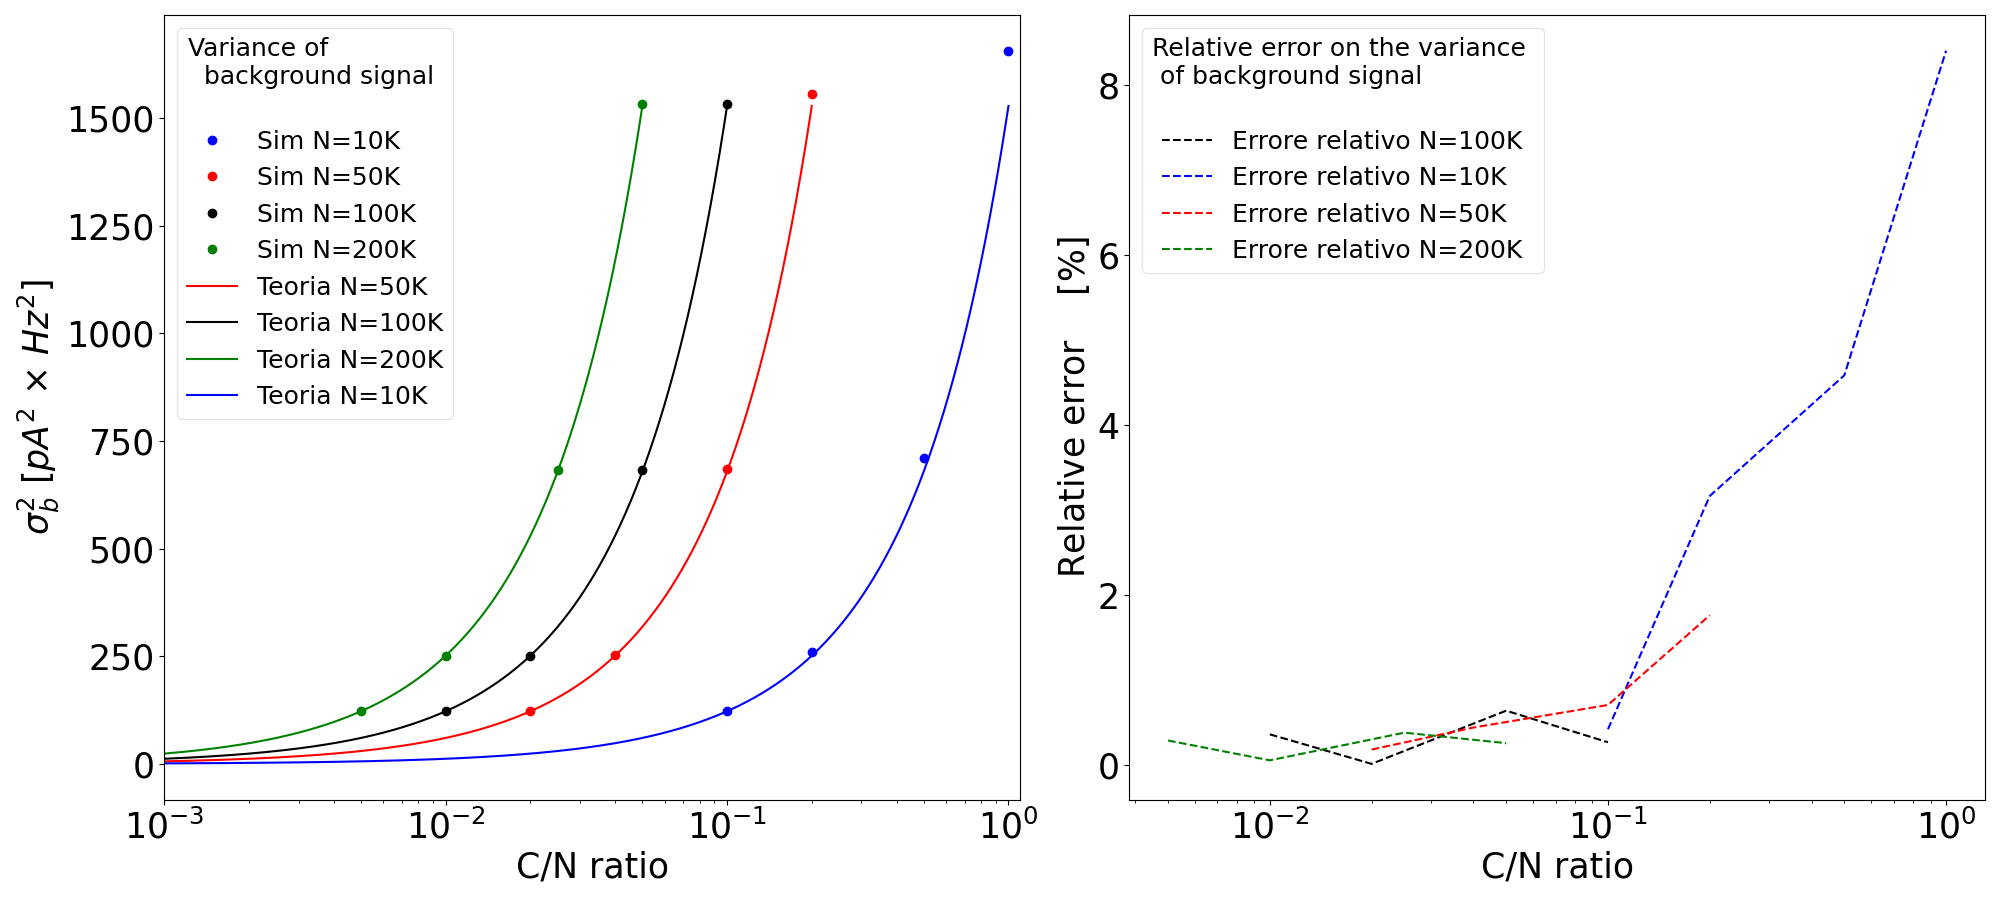
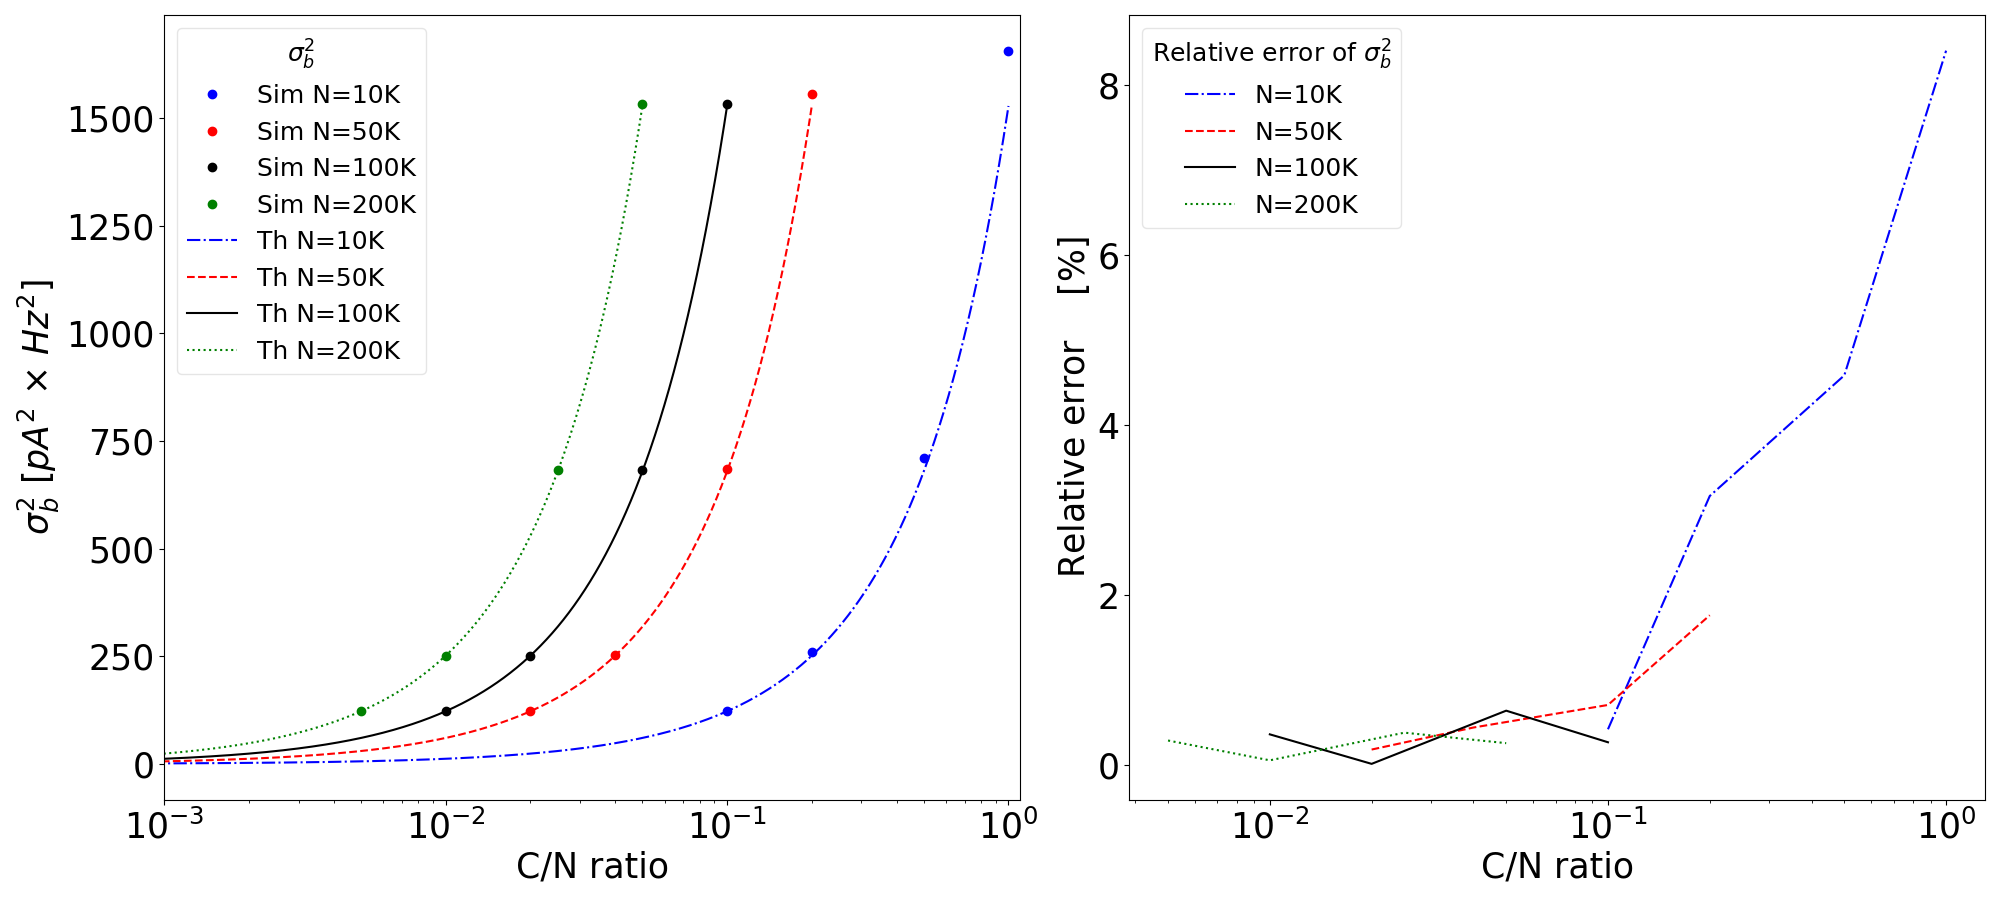
adapted CN plot

Changed region(s): [[0.093, 0.0311, 0.217, 0.4667], [0.558, 0.0311, 0.775, 0.3111]]

diff --git a/C_vs_N_plot/plot_cn.py b/C_vs_N_plot/plot_cn.py
@@ -160,10 +160,10 @@ ax1.plot(R10K, [varSb_exp_1[0], varSb_exp_2[0], varSb_exp_5[0], varSb_exp[0] ], 
 ax1.plot(R50K, [varSb_exp_1[1], varSb_exp_2[1], varSb_exp_5[1], varSb_exp[1]], "o", color="red", label="Sim N=50K")
 ax1.plot(R100K, [varSb_exp_1[2], varSb_exp_2[2], varSb_exp_5[2], varSb_exp[2]], "o", color="black", label="Sim N=100K")
 ax1.plot(R200K, [varSb_exp_1[3], varSb_exp_2[3], varSb_exp_5[3], varSb_exp[3]], "o", color="green", label="Sim N=200K")
-ax1.plot(C_frac_50,varSb_t_50k, "-", color="red", label="Teoria N=50K")
-ax1.plot(C_frac_100,varSb_t_100k, "-", color="black", label="Teoria N=100K")
-ax1.plot(C_frac_200,varSb_t_200k, "-", color="green", label="Teoria N=200K")
-ax1.plot(C_frac_10,varSb_t_10k, "-", color="blue", label="Teoria N=10K")
+ax1.plot(C_frac_10,varSb_t_10k, "-.", color="blue", label="Th N=10K")
+ax1.plot(C_frac_50,varSb_t_50k, "--", color="red", label="Th N=50K")
+ax1.plot(C_frac_100,varSb_t_100k, "-", color="black", label="Th N=100K")
+ax1.plot(C_frac_200,varSb_t_200k, ":", color="green", label="Th N=200K")
 ax1.set_xscale('log')
 ax1.set_xlim(0.001,1.1)
 
@@ -173,15 +173,14 @@ ax1.set_ylabel(r"$\sigma_{b}^2$ [$pA^2$ $\times$ $Hz^2$]", fontsize=tick_fs)
 #ax1.set_ylabel(r"$\frac{S2-S2_{th}}{S2_{th}}$ (%)  ", fontsize=tick_fs)
 ax1.tick_params(labelsize=tick_fs)
 #ax1.grid()
-ax1.legend(title="Variance of \n  background signal \n", fontsize=legend_fs, title_fontsize=legend_fs, framealpha=0.5)
+ax1.legend(title=r"$\sigma^2_b$", fontsize=legend_fs, title_fontsize=legend_fs, framealpha=0.5)
 
-
-ax2.plot(R100K,[abs((varSb_exp_1[2]-varSb_t_100k[999])/varSb_t_100k[999]*100),abs( (varSb_exp_2[2]-varSb_t_100k[1999])/varSb_t_100k[1999]*100),abs( (varSb_exp_5[2]-varSb_t_100k[4999])/varSb_t_100k[4999]*100), abs((varSb_exp[2]-varSb_t_100k[9999])/varSb_t_100k[9999]*100)], "--", color="black", label="Errore relativo N=100K")
+ax2.plot(R10K, [abs(varSb_exp_1[0]-varSb_t_10k[999])/varSb_t_10k[999]*100, abs(varSb_exp_2[0]-varSb_t_10k[1999])/varSb_t_10k[1999]*100,abs( varSb_exp_5[0]-varSb_t_10k[4999])/varSb_t_10k[4999]*100, abs(varSb_exp[0]-varSb_t_10k[9999])/varSb_t_10k[9999]*100 ], "-.", color="blue", label="N=10K")
+ax2.plot(R50K, [abs(varSb_exp_1[1]-varSb_t_50k[999])/varSb_t_50k[999]*100, abs(varSb_exp_2[1]-varSb_t_50k[1999])/varSb_t_50k[1999]*100,abs( varSb_exp_5[1]-varSb_t_50k[4999])/varSb_t_50k[4999]*100, abs(varSb_exp[1]-varSb_t_50k[9999])/varSb_t_50k[9999]*100 ], "--", color="red", label="N=50K")
+ax2.plot(R100K,[abs((varSb_exp_1[2]-varSb_t_100k[999])/varSb_t_100k[999]*100),abs( (varSb_exp_2[2]-varSb_t_100k[1999])/varSb_t_100k[1999]*100),abs( (varSb_exp_5[2]-varSb_t_100k[4999])/varSb_t_100k[4999]*100), abs((varSb_exp[2]-varSb_t_100k[9999])/varSb_t_100k[9999]*100)], "-", color="black", label="N=100K")
 #ax2.plot(T200K,[Sb_exp_1[0]-Sb_t_10k[999], Sb_exp_2[0]-Sb_t_10k[1999], Sb_exp_5[0]-Sb_t_10k[4999], Sb_exp[0]-Sb_t_10k[9999], "--", color="green", label="Teoria N=200K")
-ax2.plot(R10K, [abs(varSb_exp_1[0]-varSb_t_10k[999])/varSb_t_10k[999]*100, abs(varSb_exp_2[0]-varSb_t_10k[1999])/varSb_t_10k[1999]*100,abs( varSb_exp_5[0]-varSb_t_10k[4999])/varSb_t_10k[4999]*100, abs(varSb_exp[0]-varSb_t_10k[9999])/varSb_t_10k[9999]*100 ], "--", color="blue", label="Errore relativo N=10K")
 #ax2.plot(C_frac_10,[Sb_exp_1[1]-Sb_t_50k[999], Sb_exp_2[1]-Sb_t_50k[1999], Sb_exp_5[1]-Sb_t_50k[4999], Sb_exp[1]-Sb_t_50k[9999] ], "--", color="blue", label="Teoria N=50K")
-ax2.plot(R50K, [abs(varSb_exp_1[1]-varSb_t_50k[999])/varSb_t_50k[999]*100, abs(varSb_exp_2[1]-varSb_t_50k[1999])/varSb_t_50k[1999]*100,abs( varSb_exp_5[1]-varSb_t_50k[4999])/varSb_t_50k[4999]*100, abs(varSb_exp[1]-varSb_t_50k[9999])/varSb_t_50k[9999]*100 ], "--", color="red", label="Errore relativo N=50K")
-ax2.plot(R200K, [abs(varSb_exp_1[3]-varSb_t_200k[999])/varSb_t_200k[999]*100, abs(varSb_exp_2[3]-varSb_t_200k[1999])/varSb_t_200k[1999]*100,abs( varSb_exp_5[3]-varSb_t_200k[4999])/varSb_t_200k[4999]*100, abs(varSb_exp[3]-varSb_t_200k[9999])/varSb_t_200k[9999]*100 ], "--", color="green", label="Errore relativo N=200K")
+ax2.plot(R200K, [abs(varSb_exp_1[3]-varSb_t_200k[999])/varSb_t_200k[999]*100, abs(varSb_exp_2[3]-varSb_t_200k[1999])/varSb_t_200k[1999]*100,abs( varSb_exp_5[3]-varSb_t_200k[4999])/varSb_t_200k[4999]*100, abs(varSb_exp[3]-varSb_t_200k[9999])/varSb_t_200k[9999]*100 ], ":", color="green", label="N=200K")
 
 
 
@@ -191,7 +190,7 @@ ax2.set_ylabel(r"Relative error $\quad$[%]", fontsize=tick_fs)
 ax2.tick_params(labelsize=tick_fs)
 ax2.set_xscale('log')
 #ax2.grid()
-ax2.legend(title="Relative error on the variance \n of background signal \n", fontsize=legend_fs, title_fontsize=legend_fs, framealpha=0.5)
+ax2.legend(title=r"Relative error of $\sigma^2_b$", fontsize=legend_fs, title_fontsize=legend_fs, framealpha=0.5)
 
 
 plt.savefig("cn_plot.png")
